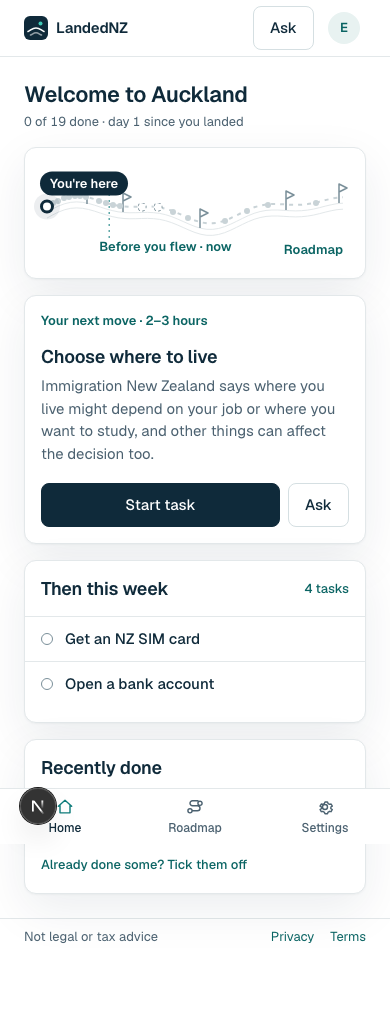
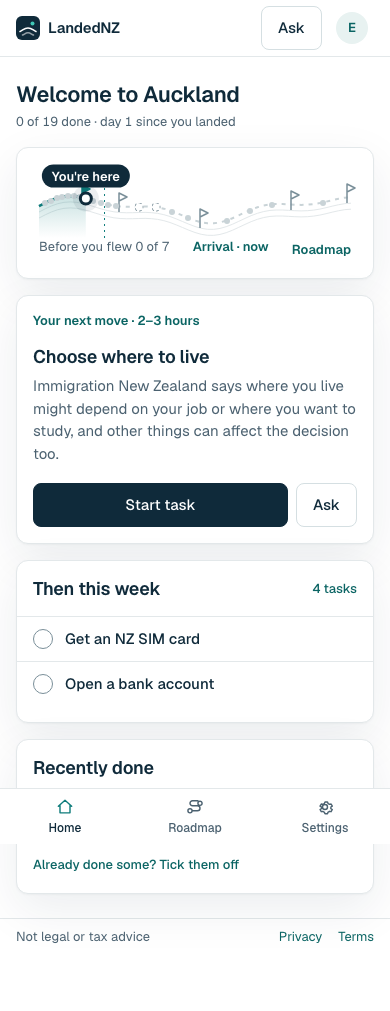
fix(web): close the P7 critique gaps

diff --git a/apps/web/src/lib/route-progress.ts b/apps/web/src/lib/route-progress.ts
@@ -31,12 +31,21 @@ function current(route: RouteView) {
   return { cur, i: cur ? LEGS.findIndex(l => l.id === cur.id) : 4 }
 }
 
-// You: inside the current stage by the share of its tasks done, at the end when everything is
-export function youX(route: RouteView): number {
-  const { cur, i } = current(route)
+// Where the marker is shown: the calendar stage once today has passed the current stage (which then reads "still open")
+function markerStage(route: RouteView, day: number) {
+  const { i } = current(route)
+  return day < 1 ? i : Math.max(i, stageIndexOn(day))
+}
+
+// You: inside the marker stage by the share of its tasks done, at the end when everything is.
+// `day` moves the marker to the calendar stage; without it the marker sits on the current stage.
+export function youX(route: RouteView, day = 0): number {
+  const { cur } = current(route)
   if (!cur) return route.total > 0 ? 1000 : 0
-  const [start, end] = stageSpan(i)
-  return cur.total ? start + ((end - start) * cur.done) / cur.total : start
+  const m = markerStage(route, day)
+  const leg = route.legs.find(l => l.id === LEGS[m].id)
+  const [start, end] = stageSpan(m)
+  return leg?.total ? start + ((end - start) * leg.done) / leg.total : start
 }
 
 // Today: inside the stage whose days hold today, null before arrival, at the end past day 61
@@ -74,7 +83,7 @@ export const daysLeftIn = (i: number, day: number) => (day < 1 ? null : STAGE_DA
 export function routeProgress(route: RouteView, arrivalDate: string, now: Date) {
   const day = journeyDay(arrivalDate, now)
   const { cur, i } = current(route)
-  const x = youX(route)
+  const x = youX(route, day)
 
   const label = day < 1 ? `You · ${plural(1 - day, 'day')} to go` : "You're here"
   const name = cur?.name ?? legName(LEGS[i].id, day < 1)
@@ -89,7 +98,7 @@ export function routeProgress(route: RouteView, arrivalDate: string, now: Date) 
 export function phoneStages(route: RouteView, arrivalDate: string, now: Date) {
   const day = journeyDay(arrivalDate, now)
   const before = day < 1
-  const { i } = current(route)
+  const i = markerStage(route, day)
   const prevLeg = i > 0 ? route.legs.find(l => l.id === LEGS[i - 1].id) : undefined
   return {
     prev: i > 0 ? { name: legName(LEGS[i - 1].id, before), state: !prevLeg || prevLeg.done === prevLeg.total ? '✓' : `${prevLeg.done} of ${prevLeg.total}` } : null,
@@ -100,8 +109,9 @@ export function phoneStages(route: RouteView, arrivalDate: string, now: Date) {
 
 // The five stage labels under the road
 export function stageLabels(route: RouteView, arrivalDate: string, now: Date) {
-  const before = journeyDay(arrivalDate, now) < 1
-  const { i: curIndex } = current(route)
+  const day = journeyDay(arrivalDate, now)
+  const before = day < 1
+  const curIndex = markerStage(route, day)
   return LEGS.map((l, i) => {
     const leg = route.legs.find(r => r.id === l.id)
     const done = leg?.done ?? 0
@@ -111,6 +121,7 @@ export function stageLabels(route: RouteView, arrivalDate: string, now: Date) {
       name: legName(l.id, before),
       state: `${done ? `${done} of ${total} done` : plural(total, 'task')} · ${legWhen(l.id, arrivalDate)}`,
       now: i === curIndex,
+      open: i < curIndex && done < total,
     }
   })
 }

diff --git a/apps/web/src/components/workspace/task-sheet.tsx b/apps/web/src/components/workspace/task-sheet.tsx
@@ -218,9 +218,10 @@ export function TaskSheet({
     )
   const sourcesList = (
     <>
-      <ol className="flex list-decimal flex-col gap-2.5 pl-5 text-small tabular-nums marker:text-muted">
-        {sourcesShown.map(s => (
-          <li key={s.url} className="pl-1">
+      <ol role="list" className="m-0 flex list-none flex-col p-0 text-small tabular-nums">
+        {sourcesShown.map((s, n) => (
+          <li key={s.url} className="flex gap-2.5 border-t border-hairline py-2 first:border-t-0 first:pt-0">
+            <span aria-hidden="true" className="w-3.5 flex-none py-0.5 text-muted max-narrow:py-3">{n + 1}</span>
             <span className="flex flex-col">
               <a href={s.url} target="_blank" rel="noopener noreferrer" className="py-0.5 font-medium max-narrow:py-3">
                 {s.title} <span className="sr-only">(opens in a new tab)</span>
@@ -232,7 +233,7 @@ export function TaskSheet({
         ))}
       </ol>
       {moreCount > 0 && (
-        <Button variant="ghost" size="sm" aria-expanded={allSources} onClick={() => setAllSources(v => !v)} className="self-start">
+        <Button variant="ghost" size="sm" aria-expanded={allSources} onClick={() => setAllSources(v => !v)} className="self-start px-0 font-semibold text-teal-text">
           {allSources ? "Show fewer sources" : `${moreCount} more sources`}
         </Button>
       )}
@@ -350,7 +351,7 @@ export function TaskSheet({
             {steps && sources.length > 0 && (
               <Card aria-labelledby={`${titleId}-sources`} className="gap-3">
                 <div className="flex items-baseline justify-between gap-3">
-                  <h2 id={`${titleId}-sources`} className="text-body font-semibold">
+                  <h2 id={`${titleId}-sources`} className="text-section">
                     Sources
                   </h2>
                   <p className="text-small text-muted">{checkedLabel}</p>

diff --git a/apps/web/src/app/globals.css b/apps/web/src/app/globals.css
@@ -59,7 +59,7 @@
   --shadow-rail-ring: 0 0 0 5px rgba(63, 201, 183, 0.18);
   --shadow-chosen: inset 0 0 0 1px #0E7C7B;
 
-  --container-page: 1120px;
+  --container-page: 1168px; /* 1120 content + 24 padding each side: the edge sits at 160 px at 1440 */
   --container-hero-title: 560px;
   --container-hero-lede: 520px;
   --container-auth: 460px;
@@ -109,12 +109,15 @@
   to { background-position: 200% 50%; }
 }
 
-/* Page container: 1120 px with 24 px side padding */
+/* Page container: 1120 px content, 24 px side padding (16 px on phones) */
 @utility container-page {
   width: 100%;
   max-width: var(--container-page);
   margin-inline: auto;
   padding-inline: 24px;
+  @media (width < 561px) {
+    padding-inline: 16px;
+  }
 }
 
 /* Route waypoints (12 px; current 16 px; Home beads 8 px on phones) and the rail (ui_parts.ROUTE_CSS) */
@@ -130,6 +133,23 @@
     align-items: center;
     justify-content: center;
   }
+  /* Option radio: 20 px, 1.5 px border; chosen = teal fill with an 8 px white centre */
+  .radio {
+    flex: none;
+    box-sizing: border-box;
+    appearance: none;
+    display: grid;
+    place-items: center;
+    margin: 0;
+    width: 20px;
+    height: 20px;
+    border-radius: 9999px;
+    border: 1.5px solid var(--color-control);
+  }
+  .radio::after { content: ""; width: 8px; height: 8px; border-radius: 9999px; }
+  .radio:checked { background: var(--color-teal); border-color: var(--color-teal); }
+  .radio:checked::after { background: var(--color-white); }
+  .wp-mark { width: 20px; height: 20px; }
   .wp-done { background: var(--color-teal); }
   .wp-current { width: 16px; height: 16px; border: 2px solid var(--color-ink); }
   .wp-leg-now { border: 2px solid var(--color-ink); }

diff --git a/apps/web/src/lib/route-progress.test.ts b/apps/web/src/lib/route-progress.test.ts
@@ -71,8 +71,24 @@ describe('routeProgress', () => {
 
   it("on day 5 the pin reads You're here", () => {
     const p = routeProgress(week1Open(), ARRIVAL, DAY_5)
-    expect(p).toMatchObject({ x: 240, todayX: 400, label: "You're here", passed: [true, false, false, false, false] })
+    expect(p).toMatchObject({ x: 270, todayX: 400, label: "You're here", passed: [true, true, false, false, false] })
     expect(p.summary).toBe('Arrival · 3 of 4')
+  })
+
+  it('day 1 with Before you flew tasks open: the pin sits on Arrival, the stage behind reads still open', () => {
+    const v = view([4, 0, 0, 0, 0])
+    expect(routeProgress(v, ARRIVAL, DAY_1).x).toBe(150)
+    const labels = stageLabels(v, ARRIVAL, DAY_1)
+    expect(labels.map(l => l.now)).toEqual([false, true, false, false, false])
+    expect(labels.map(l => l.open)).toEqual([true, false, false, false, false])
+  })
+
+  it('before arrival the pin and now stay on Before you flew', () => {
+    const v = view([4, 0, 0, 0, 0])
+    expect(routeProgress(v, ARRIVAL, DAY_0).x).toBe(100)
+    const labels = stageLabels(v, ARRIVAL, DAY_0)
+    expect(labels.map(l => l.now)).toEqual([true, false, false, false, false])
+    expect(labels.some(l => l.open)).toBe(false)
   })
 
   it('names the stage and days left', () => {
@@ -98,7 +114,7 @@ describe('stageLabels', () => {
     expect(labels.map(l => l.state)).toEqual([
       '6 of 6 done · by 2 Nov', '3 of 4 done · 2–3 Nov', '7 tasks · to 9 Nov', '4 tasks · to 2 Dec', '1 task · from December',
     ])
-    expect(labels.map(l => l.now)).toEqual([false, true, false, false, false])
+    expect(labels.map(l => l.now)).toEqual([false, false, true, false, false])
   })
 })
 

diff --git a/apps/web/src/components/workspace/home-view.tsx b/apps/web/src/components/workspace/home-view.tsx
@@ -77,10 +77,10 @@ export function HomeView({ home, route, arrivalDate, now }: { home: Home; route:
                 )}
               </div>
               <CardFoot className="flex gap-2 pt-1">
-                <Link href={taskHref(top.taskId)} className={buttonVariants({ className: "max-narrow:flex-1" })}>
+                <Link href={taskHref(top.taskId)} className={buttonVariants({ className: "min-h-11 max-narrow:flex-1" })}>
                   Start task<span className="sr-only">: {top.title}</span>
                 </Link>
-                <Link href={`${taskHref(top.taskId)}&ask=1`} className={buttonVariants({ variant: "quiet" })}>
+                <Link href={`${taskHref(top.taskId)}&ask=1`} className={buttonVariants({ variant: "quiet", className: "min-h-11" })}>
                   <Wide>Ask about this</Wide>
                   <Phone>Ask</Phone>
                 </Link>
@@ -114,7 +114,7 @@ export function HomeView({ home, route, arrivalDate, now }: { home: Home; route:
               {home.week.map(({ task: t, meta }, i) => (
                 <li key={t.taskId} className={cn(i > 1 && "max-narrow:hidden")}>
                   <Link href={taskHref(t.taskId)} className={ROW}>
-                    <Waypoint state={t.state === "blocked" ? "blocked" : "available"} />
+                    <Waypoint size="mark" state={t.state === "blocked" ? "blocked" : "available"} />
                     <span title={t.title} className="min-w-0 flex-1 truncate font-medium max-narrow:whitespace-normal">{t.title}</span>
                     <span className="flex-none text-small text-muted max-narrow:hidden">{meta}</span>
                   </Link>

diff --git a/apps/web/src/components/workspace/roadmap-view.tsx b/apps/web/src/components/workspace/roadmap-view.tsx
@@ -142,7 +142,7 @@ function Itinerary({ it, startOpen }: { it: ItineraryData; startOpen: boolean })
               <div className="flex items-baseline justify-between gap-3">
                 <h2 className="text-body font-semibold max-narrow:text-section">
                   {current.name} · {plural(current.count, "task")}
-                  {current.carried.map(c => <span key={c.stage} className="text-small font-normal text-muted">, {c.count} still open from {c.stage}</span>)}
+                  {current.carried.map(c => <span key={c.stage} className="text-small font-normal text-muted max-narrow:block"><span className="max-narrow:hidden">,</span> {c.count} still open from {c.stage}</span>)}
                 </h2>
                 <span className="hidden text-small text-muted max-narrow:inline">{current.when}</span>
               </div>

diff --git a/apps/web/src/components/route/route-track.tsx b/apps/web/src/components/route/route-track.tsx
@@ -77,7 +77,7 @@ export function RouteTrack({ route, arrivalDate, now, variant }: { route: RouteV
       <ol className="track-stages" style={{ gridTemplateColumns: TRACK_FLAGS.map((fx, i) => `minmax(0, ${fx - (i ? TRACK_FLAGS[i - 1] : 0)}fr)`).join(" ") }}>
         {stageLabels(route, arrivalDate, now).map(s => (
           <li key={s.id} className={`track-stage${s.now ? "" : " track-stage-off"}`}>
-            <span className="track-stage-name">{s.name}{s.now ? " · now" : ""}</span>
+            <span className="track-stage-name">{s.name}{s.now ? " · now" : s.open ? " · still open" : ""}</span>
             <span className="text-muted">
               {s.state.split(" · ").map((part, i, all) => <span key={part} className="whitespace-nowrap">{part}{i < all.length - 1 && " · "} </span>)}
             </span>

diff --git a/apps/web/src/components/route/waypoint.tsx b/apps/web/src/components/route/waypoint.tsx
@@ -3,6 +3,6 @@ import type { WaypointState } from "@/lib/route-view"
 
 // A route dot. Decorative: the row or leg next to it carries the words.
 // "leg-now" is the current leg's head dot (12 px ink ring; the current task's dot is 16 px).
-export function Waypoint({ state, size = "rail" }: { state: WaypointState | "leg-now"; size?: "rail" | "bead" }) {
-  return <span data-waypoint={state} aria-hidden="true" className={cn("wp", `wp-${state}`, size === "bead" && "wp-bead")} />
+export function Waypoint({ state, size = "rail" }: { state: WaypointState | "leg-now"; size?: "rail" | "bead" | "mark" }) {
+  return <span data-waypoint={state} aria-hidden="true" className={cn("wp", `wp-${state}`, size === "bead" && "wp-bead", size === "mark" && "wp-mark")} />
 }

diff --git a/apps/web/src/components/workspace/task-sheet.test.tsx b/apps/web/src/components/workspace/task-sheet.test.tsx
@@ -281,8 +281,8 @@ describe('TaskSheet', () => {
       expect(within(list).getByText('checked 25 Oct 2026')).toBeInTheDocument()
       const items = within(list).getAllByRole('listitem')
       expect(items.map(i => i.textContent)).toEqual([
-        'Tax codes for individuals (opens in a new tab)ird.govt.nz',
-        `${NEW.title} (opens in a new tab)ird.govt.nz`,
+        '1Tax codes for individuals (opens in a new tab)ird.govt.nz',
+        `2${NEW.title} (opens in a new tab)ird.govt.nz`,
       ])
       const title = within(items[0]).getByRole('link')
       expect(title).toHaveAttribute('href', CODES.url)

diff --git a/apps/web/src/components/ui/option-row.tsx b/apps/web/src/components/ui/option-row.tsx
@@ -15,7 +15,7 @@ export function OptionRow({
         className,
       )}
     >
-      <input type="radio" checked={checked} className="m-0 size-4 shrink-0 accent-teal" {...props} />
+      <input type="radio" checked={checked} className="radio" {...props} />
       {label}
     </label>
   )

diff --git a/docs/design/r1-final/gate/critique-s3.md b/docs/design/r1-final/gate/critique-s3.md
@@ -1,0 +1,14 @@
+# S3 critique (single context; Home, Roadmap, Task, Settings, Build my roadmap, 1440 and 390)
+
+Assessment A (visual, against the boards)
+- Container: content edge at 160 px at 1440 (main x 136 + padding 24, 1120 content); 16 px phone gutter. No horizontal overflow on any page (scrollWidth 1440 and 390).
+- Markers: day 1, "You're here" pill and "now" sit on Arrival; "Before you flew" reads "still open". Counts and states unchanged. At 1440 the long label "Before you flew · still open" wraps to two lines in its 150-unit column (P3, accepted).
+- Task Sources card: title 18, number column, hairlines between rows, "5 more sources" teal semibold link. Domain lines and ask title kept (owner rulings).
+- Radios: 20 x 20 at 1440 and 390 (Settings and Build my roadmap); chosen = teal fill, 8 px white centre.
+- Roadmap phone: "6 still open from Before you flew" on its own 13 muted line.
+- Home: Then-this-week markers 20 x 20; Start task and Ask about this 44 px tall.
+- Phone "You're here" pill still overlaps the start of the road (known P3, unchanged).
+- P0: none. P1: none.
+
+Assessment B (detector and measurements)
+`impeccable detect --json` over components/workspace, route, ui, settings, chrome returned `[]`. Measurements from getBoundingClientRect on the 3100 production build: pill 88.3 x 23.5 at x 303 (1440) and 42 (390); Start task h 44; wp-mark 20 x 20; radios 20 x 20; Sources h2 18px; signed-in footer scrollWidth minus clientWidth 0 at 390 (height 37).
